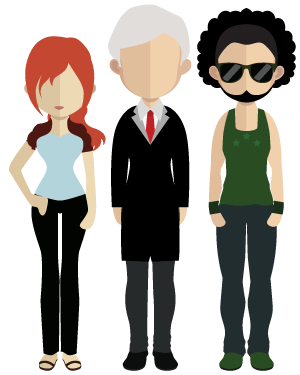
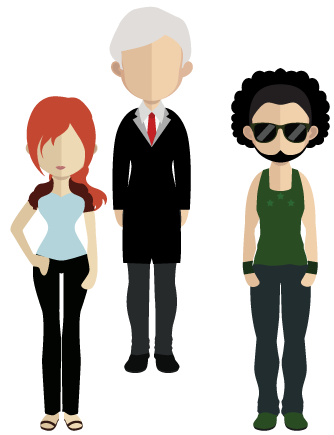
transition and step two complete
work on next transition and step three

diff --git a/js/story.js b/js/story.js
@@ -1,33 +1,88 @@
 /*story.js for Referralclix How It Works page - Kristi Witts*/
 /*-- "Mike Makes a Purchase" --*/
 
+/*--LOADER IMG--*/
+// $(window).load(function() {
+// 	$(".loader").fadeOut("slow");
+// })
+
+/*DEV PURPOSES ONLY*/
+$(document).scroll(function() {
+    console.log($(document).scrollTop());
+})
+
+/*--SCROLL ANIMATIONS ON DOC LOAD--*/
 $(document).ready(function() {
 
-  /* Scroll positions */
+  /* SCROLL POSITIONS */
   $(window).scroll(function() {
 
-    /* Mike - Step One and Two */
-    if ($(this).scrollTop() > 0) {
-      $('#mike').css({ 'position': 'fixed', 'top': '340px', 'opacity': '1' });
+    /* MIKE - Step One and Two */
+    if ($(this).scrollTop() > 1400) {
+      $('#mike').css({ 'position': 'absolute', 'top': '1240px' });
+    } else if ($(this).scrollTop() > 200) {
+      $('#mike').css({ 'position': 'fixed', 'top': '220px' });
     } else {
-      $('#mike').css({ 'position': 'absolute', 'top': '0px', 'opacity': '0.6' });
+      $('#mike').css({ 'position': 'absolute', 'top': '0px' });
     }
-    // if ($(this).scrollTop() > 150) {
-    //   $('#mike').css({ 'transform': 'translateX(-100px)' });
+    if ($(this).scrollTop() > 700) {
+      $('#mike').css({ 'transform': 'translateX(-150px) scale(0.8)' });
+      $('#mike').css({ '-webkit-transform': 'translateX(-150px) scale(0.8)' });
+    } else {
+      $('#mike').css({ 'transform': 'translateX(0) scale(1)' });
+      $('#mike').css({ '-webkit-transform': 'translateX(0) scale(1)' });
+    }
+
+    /* SUZIE - Step Two, Three, and Four */
+    if ($(this).scrollTop() > 910) {
+      $('#suzie').css({ 'position': 'fixed', 'top': '220px' });
+      // $('#suzie').css({ 'transform': 'translateX(150px) scale(0.8)' });
+      // $('#suzie').css({ '-webkit-transform': 'translateX(150px) scale(0.8)' });
+    } else {
+      $('#suzie').css({ 'position': 'absolute', 'top': '100px' });
+    }
+
+     /* MIKE'S FRIENDS - Step Two */
+    if ($(this).scrollTop() > 1400) {
+      $('#mikesfriends').css({ 'position': 'absolute', 'top': '510px' });
+    } else if ($(this).scrollTop() > 910) {
+      $('#mikesfriends').css({ 'position': 'fixed', 'top': '120px' });
+    } else {
+      $('#mikesfriends').css({ 'position': 'absolute', 'top': '0px' });
+    }
+
+    /* REFERRAL PLANE - Step Two*/
+    if ($(this).scrollTop() > 950) {
+      $('#plane-right').css({ 'position': 'fixed', 'top': '320px' });
+    } else {
+      $('#plane-right').css({ 'position': 'absolute', 'top': '0px' });
+    }
+    if ($(this).scrollTop() > 1000) {
+      $('#plane-right').css({ 'transform': 'translateX(150px)' });
+      $('#plane-right').css({ '-webkit-transform': 'translateX(150px)' });
+    } else {
+      $('#plane-right').css({ 'transform': 'translateX(-150px)' });
+      $('#plane-right').css({ '-webkit-transform': 'translateX(-150px)' });
+    }
+
+    // if ($(this).scrollTop() > 700) {
+    //   $('#suzie').css({ 'transform': 'translateX(150px) scale(0.8)' });
+    //   $('#suzie').css({ '-webkit-transform': 'translateX(150px) scale(0.8)' });
     // } else {
-    //   $('#mike').css({ 'transform': 'translateX(0)' });
+    //   $('#suzie').css({ 'transform': 'translateX(0) scale(1)' });
+    //   $('#suzie').css({ '-webkit-transform': 'translateX(0) scale(1)' });
     // }
 
 
   });
 
-  /* Change Image */
+  /* CHANGE IMAGE */
   $(window).scroll(function() {
 
-    /* Mike - Step One and Two */
-    if ($(this).scrollTop() > 700) {
+    /* MIKE - Step One and Two */
+    if ($(this).scrollTop() > 500) {
       $('#mike').css('background', 'url("../images/mike_03.png")');
-    } else if ($(this).scrollTop() > 200) {
+    } else if ($(this).scrollTop() > 350) {
       $('#mike').css('background', 'url("../images/mike_02.png")');
     } else {
       $('#mike').css('background', 'url("../images/mike_01.png")');
@@ -35,22 +90,64 @@ $(document).ready(function() {
 
   });
 
-  /* Disappear */
+  /* APPEAR/DISAPPEAR */
   $(window).scroll(function() {
+    /*MIKE*/
     if ($(this).scrollTop() > 4500) {
       $('#mike').css({ 'opacity': '0' });
     } else {
       $('#mike').css({ 'opacity': '1' });
     }
+
+    /*SUZIE*/
+
+    /*MIKE*/
+    if ($(this).scrollTop() > 910) {
+      $('#suzie').css({ 'opacity': '1' });
+    } else {
+      $('#suzie').css({ 'opacity': '0' });
+    }
+
+    /*MIKE'S FRIENDS*/
+    if ($(this).scrollTop() > 910) {
+      $('#mikesfriends').css({ 'opacity': '1' });
+    } else {
+      $('#mikesfriends').css({ 'opacity': '0' });
+    }
+
+    /*REFERRAL PLANE - MIKE TO FRIENDS*/
+    if ($(this).scrollTop() > 1200) {
+      $('#plane-right').css({ 'opacity': '0' });
+    } else if ($(this).scrollTop() > 1000) {
+      $('#plane-right').css({ 'opacity': '1' });
+    } else {
+      $('#plane-right').css({ 'opacity': '0' });
+    }
   });
 
-  /* Show/Hide Content */
+  /* SHOW/HIDE/POSITION TEXT CONTENT */
   $(window).scroll(function() {
   	var mymessage = $('#mikepurchase');
-    if ($(this).scrollTop() > 200) {
+    if ($(this).scrollTop() > 740) {
+      mymessage.fadeOut('500');
+      mymessage.css({'position': 'absolute', 'top': '0'});
+    } else if ($(this).scrollTop() > 320) {
       mymessage.fadeIn('500');
+      mymessage.css({'position': 'fixed', 'top': '130px'});
     } else {
-      mymessage.fadeOut('200')
+      mymessage.fadeOut('200');
+    }
+  });
+  $(window).scroll(function() {
+  	var mymessage = $('#mikerefers');
+    if ($(this).scrollTop() > 1400) {
+      mymessage.fadeOut('500');
+      mymessage.css({'position': 'absolute', 'top': '0'});
+    } else if ($(this).scrollTop() > 800) {
+      mymessage.fadeIn('500');
+      mymessage.css({'position': 'fixed', 'top': '130px'});
+    } else {
+      mymessage.fadeOut('200').css({'positon': 'fixed', 'top': '130px'})
     }
   });
   // function isScrolledIntoView(elem) {

diff --git a/css/style.css b/css/style.css
@@ -1026,6 +1026,15 @@ input {
 }
 
 /* Mike's Story*/
+.loader {
+	position: fixed;
+	left: 0px;
+	top: 0px;
+	width: 100%;
+	height: 100%;
+	z-index: 9999;
+	background: url('../images/loader.gif') 50% 50% no-repeat rgb(249,249,249);
+}
 #story section {
   text-align: center !important;
   position: relative;
@@ -1036,28 +1045,69 @@ input {
 #story section p {
   font-size: 1.7em;
   color: #0079c1;
+  display: none;
+  position: absolute;
+  left: 0;
+  right: 0;
+  margin: 0 auto;
 }
 /*Step One*/
 #stepone {
-  height: 1000px;
+  height: 600px;
   position: relative;
-}
-#stepone #mikepurchase {
-  position: relative;
-  margin: 300px auto 0;
-  display: none;
 }
 #stepone #mike {
   position: absolute;
-  left: 50%;
-  margin-left: -108px;
-  opacity: 0.6;
-  /*transform: translateX(0);*/
+  left: 0;
+  right: 0;
+  margin: 0 auto;
+  -webkit-transform: translateX(0) scale(1);
+          transform: translateX(0) scale(1);
   transition: opacity .3s, background .5s, transform 1s;
   background: url('../images/mike_01.png');
   background-repeat: no-repeat;
   width: 216px;
   height: 375px;
+}
+#steptwo {
+  height: 2000px;
+  position: relative;
+}
+#steptwo #suzie{
+  position: absolute;
+  left: 0;
+  right: 0;
+  margin: 0 auto;
+  -webkit-transform: translateX(150px) scale(0.8);
+          transform: translateX(150px) scale(0.8);
+  transition: opacity .3s, background .5s, transform 1s;
+  background: url('../images/suzie_01.png');
+  background-repeat: no-repeat;
+  width: 216px;
+  height: 375px;
+}
+#steptwo #mikesfriends{
+  position: absolute;
+  left: 0;
+  right: 0;
+  top: 0;
+  margin: 0 auto;
+  -webkit-transform: translateX(120px) scale(0.8);
+          transform: translateX(120px) scale(0.8);
+}
+#steptwo #plane-right {
+  position: absolute;
+  left: 0;
+  right: 0;
+  margin: 0 auto;
+  opacity: 0;
+  -webkit-transform: translateX(-150px);
+          transform: translateX(-150px);
+  transition: opacity .3s, background .5s, transform 1s;
+  background: url('../images/referral_01.png');
+  background-repeat: no-repeat;
+  width: 100px;
+  height: 100px;
 }
 
 

diff --git a/how-it-works/index.html b/how-it-works/index.html
@@ -71,7 +71,7 @@
   <!-- #top -->
   <div class="main-container">
     <div class="main wrapper clearfix">
-
+      <!-- <div class="loader"></div> -->
       <article id="story">
         <header>
           <h1>This is Mike.</h1>
@@ -83,15 +83,15 @@
 
         <!-- Step Two: Mike sends a link. -->
         <section id="steptwo">
-          <p>Mike sends a referral link to his friends.</p>
-          <figure id="plane-right">
-            <img src="../images/referral_01.png"/>
+          <p id="mikerefers">Mike sends a referral link to his friends.</p>
+          <figure id="mikesfriends">
+            <img src="../images/friends1.png"/>
           </figure>
           <div id="suzie">
             <img src="../images/suzie_01.png"/>
           </div>
-          <figure id="mikesfriends">
-            <img src="../images/friends1.png"/>
+          <figure id="plane-right">
+            <img src="../images/referral_01.png"/>
           </figure>
         </section>
 
